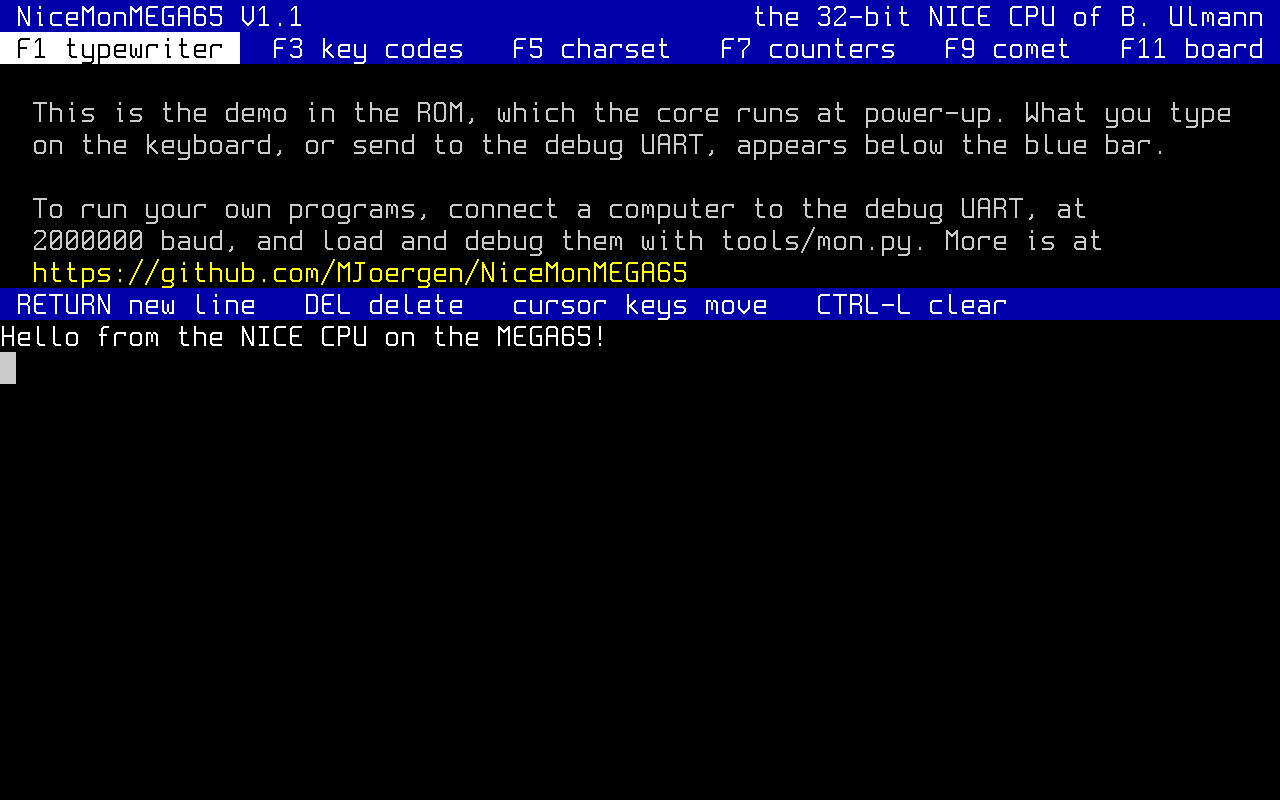
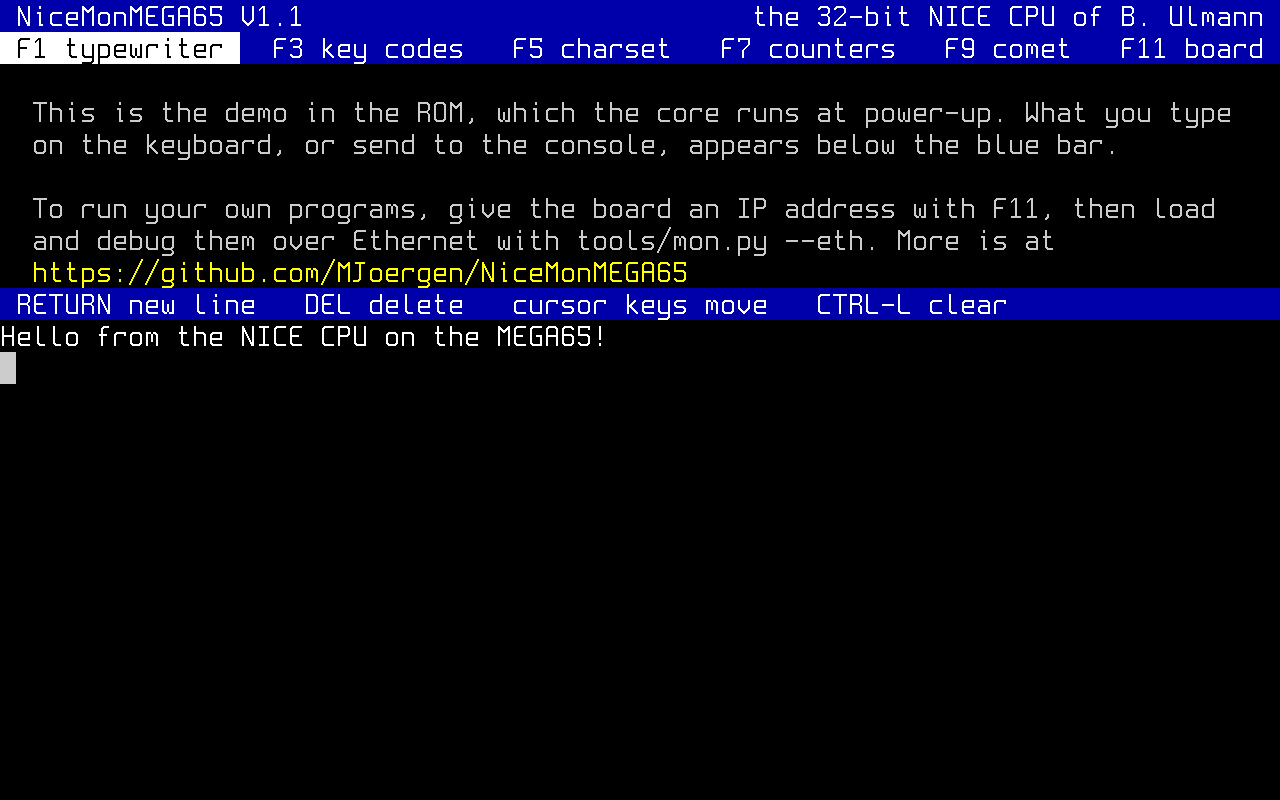
Point the demo's welcome at the Ethernet link
The welcome told users to connect a computer to the debug UART at
2000000 baud, which needs a JTAG cable that few of them have, and the
key codes spoke of bytes that the debug UART sends.

The welcome now says to give the board an IP address with F11, then to
load and debug programs over Ethernet with tools/mon.py --eth, and both
texts speak of the console. test.expected has the new texts, and the F7
counters, which count the steps from power-up, 8 more. The README's
pictures are drawn again with V1.1, and demo/README.md describes the
welcome.

diff --git a/demo/README.md b/demo/README.md
@@ -24,8 +24,8 @@ so on, which the MEGA65 has without SHIFT.
 | F11 | The board: a self-test, and the Ethernet station's addresses |
 
 The typewriter's top ten rows are the welcome: the two bars, what the
-demo is, how to load your own programs through the debug UART, and a third
-blue bar with the keys. The 15 rows below it are a typewriter.
+demo is, how to load your own programs over Ethernet, after F11 gives
+the board an IP address, and a third blue bar with the keys. The 15 rows below it are a typewriter.
 What you type on the keyboard, or send over Ethernet or the debug UART,
 appears at the blinking cursor:
 
